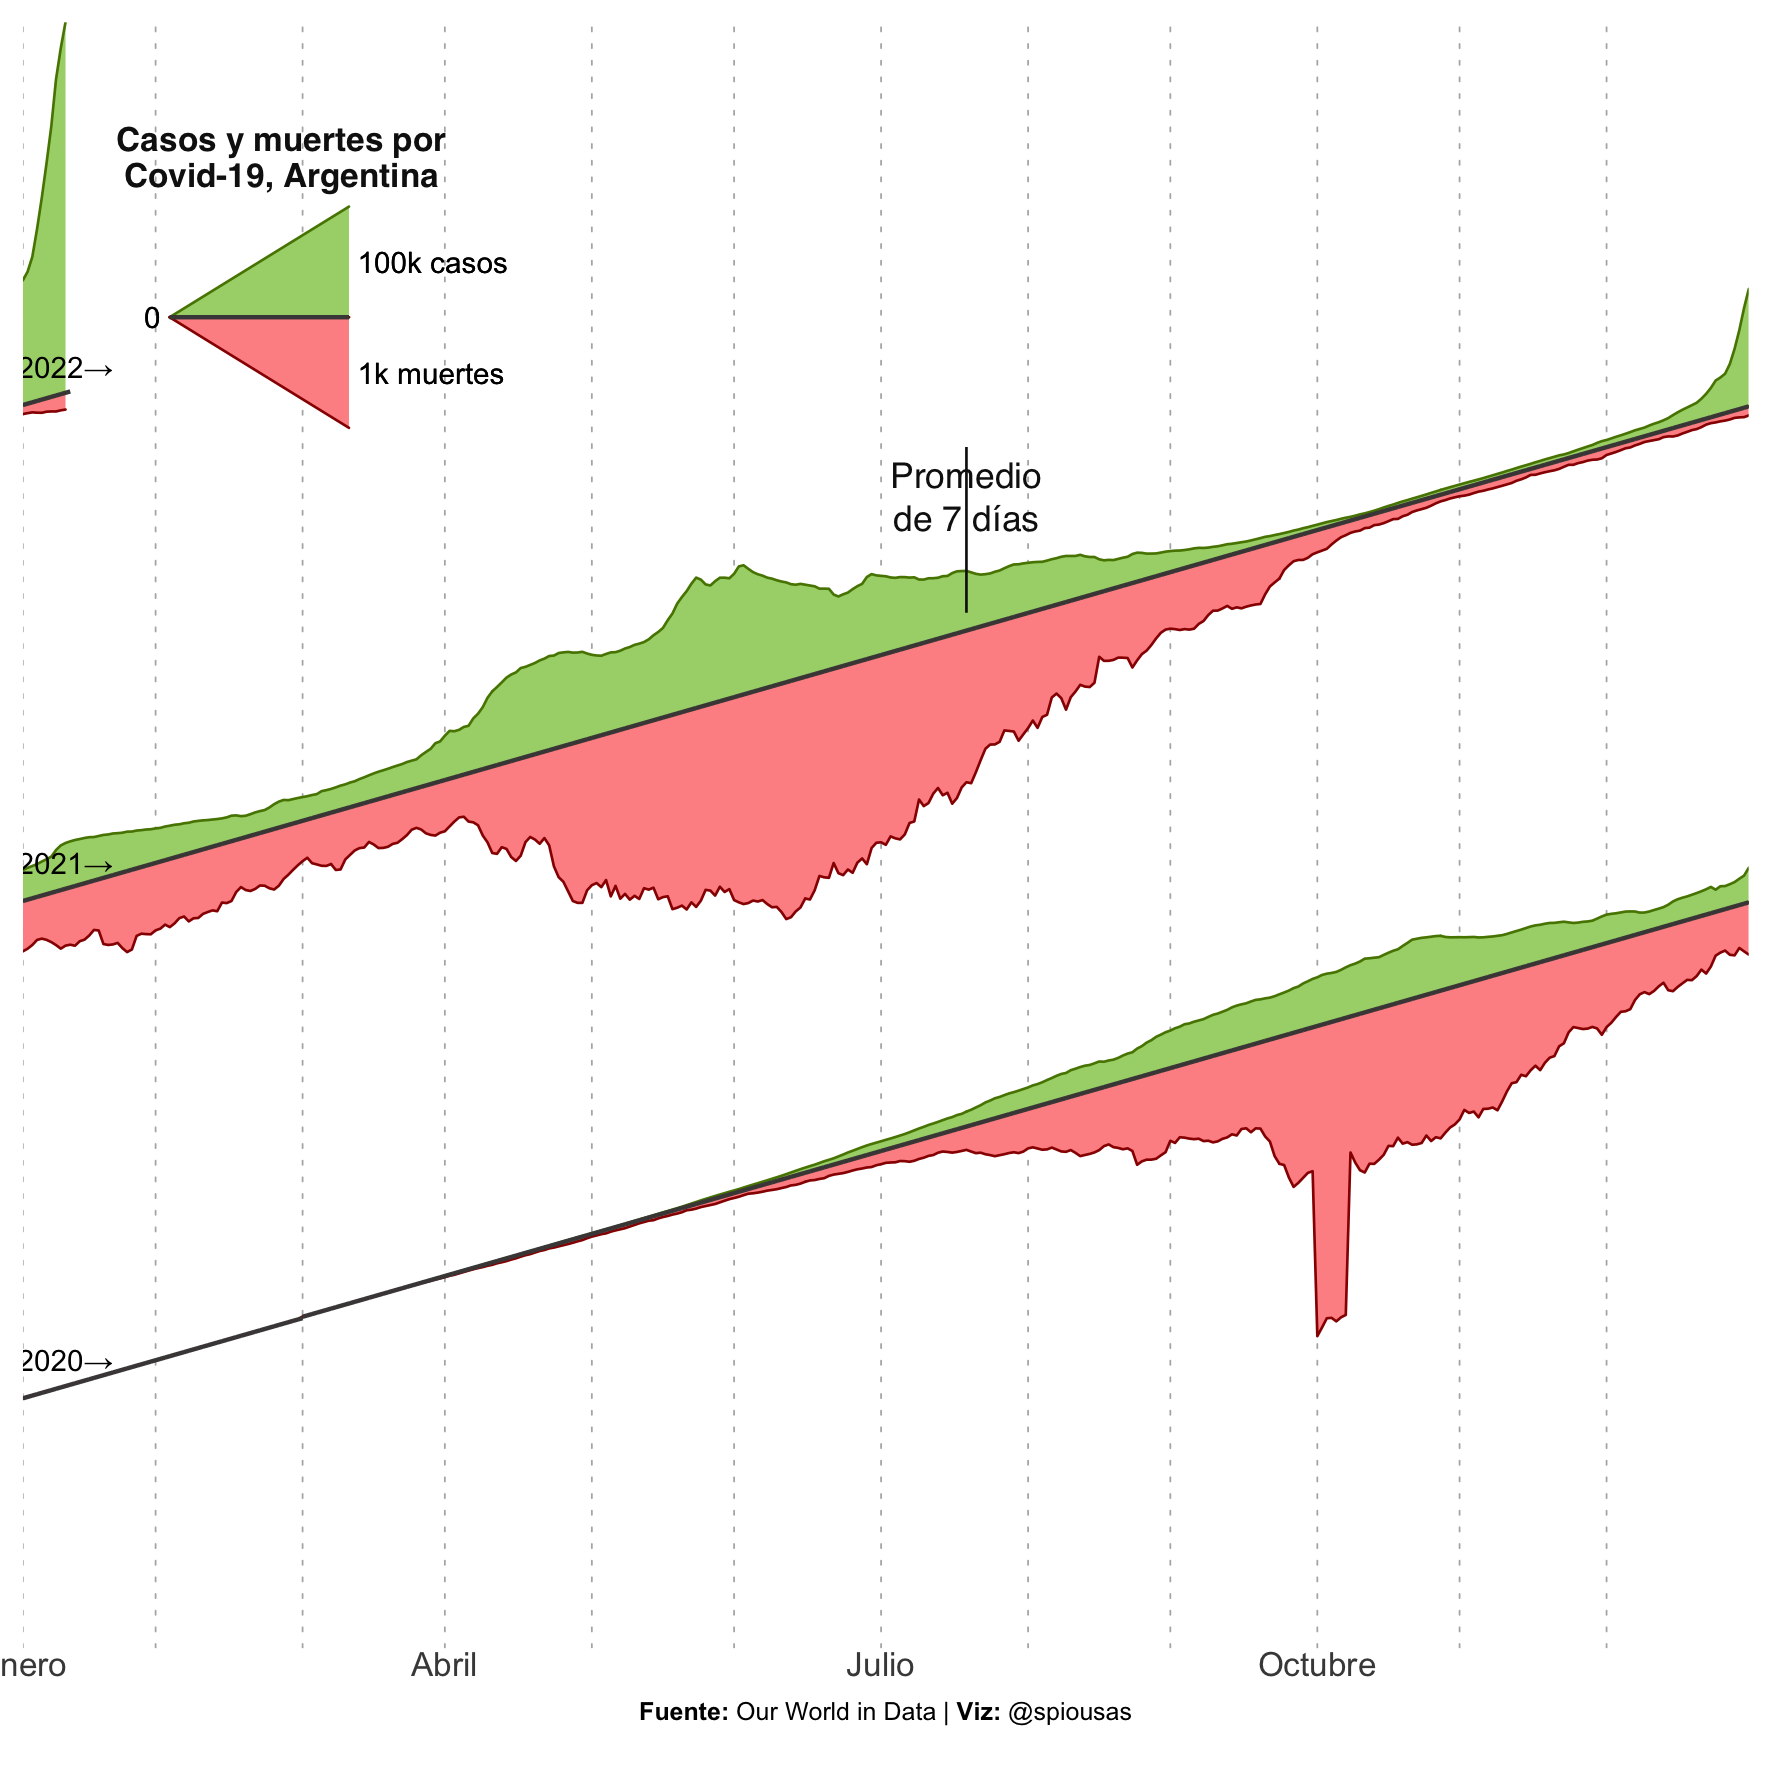
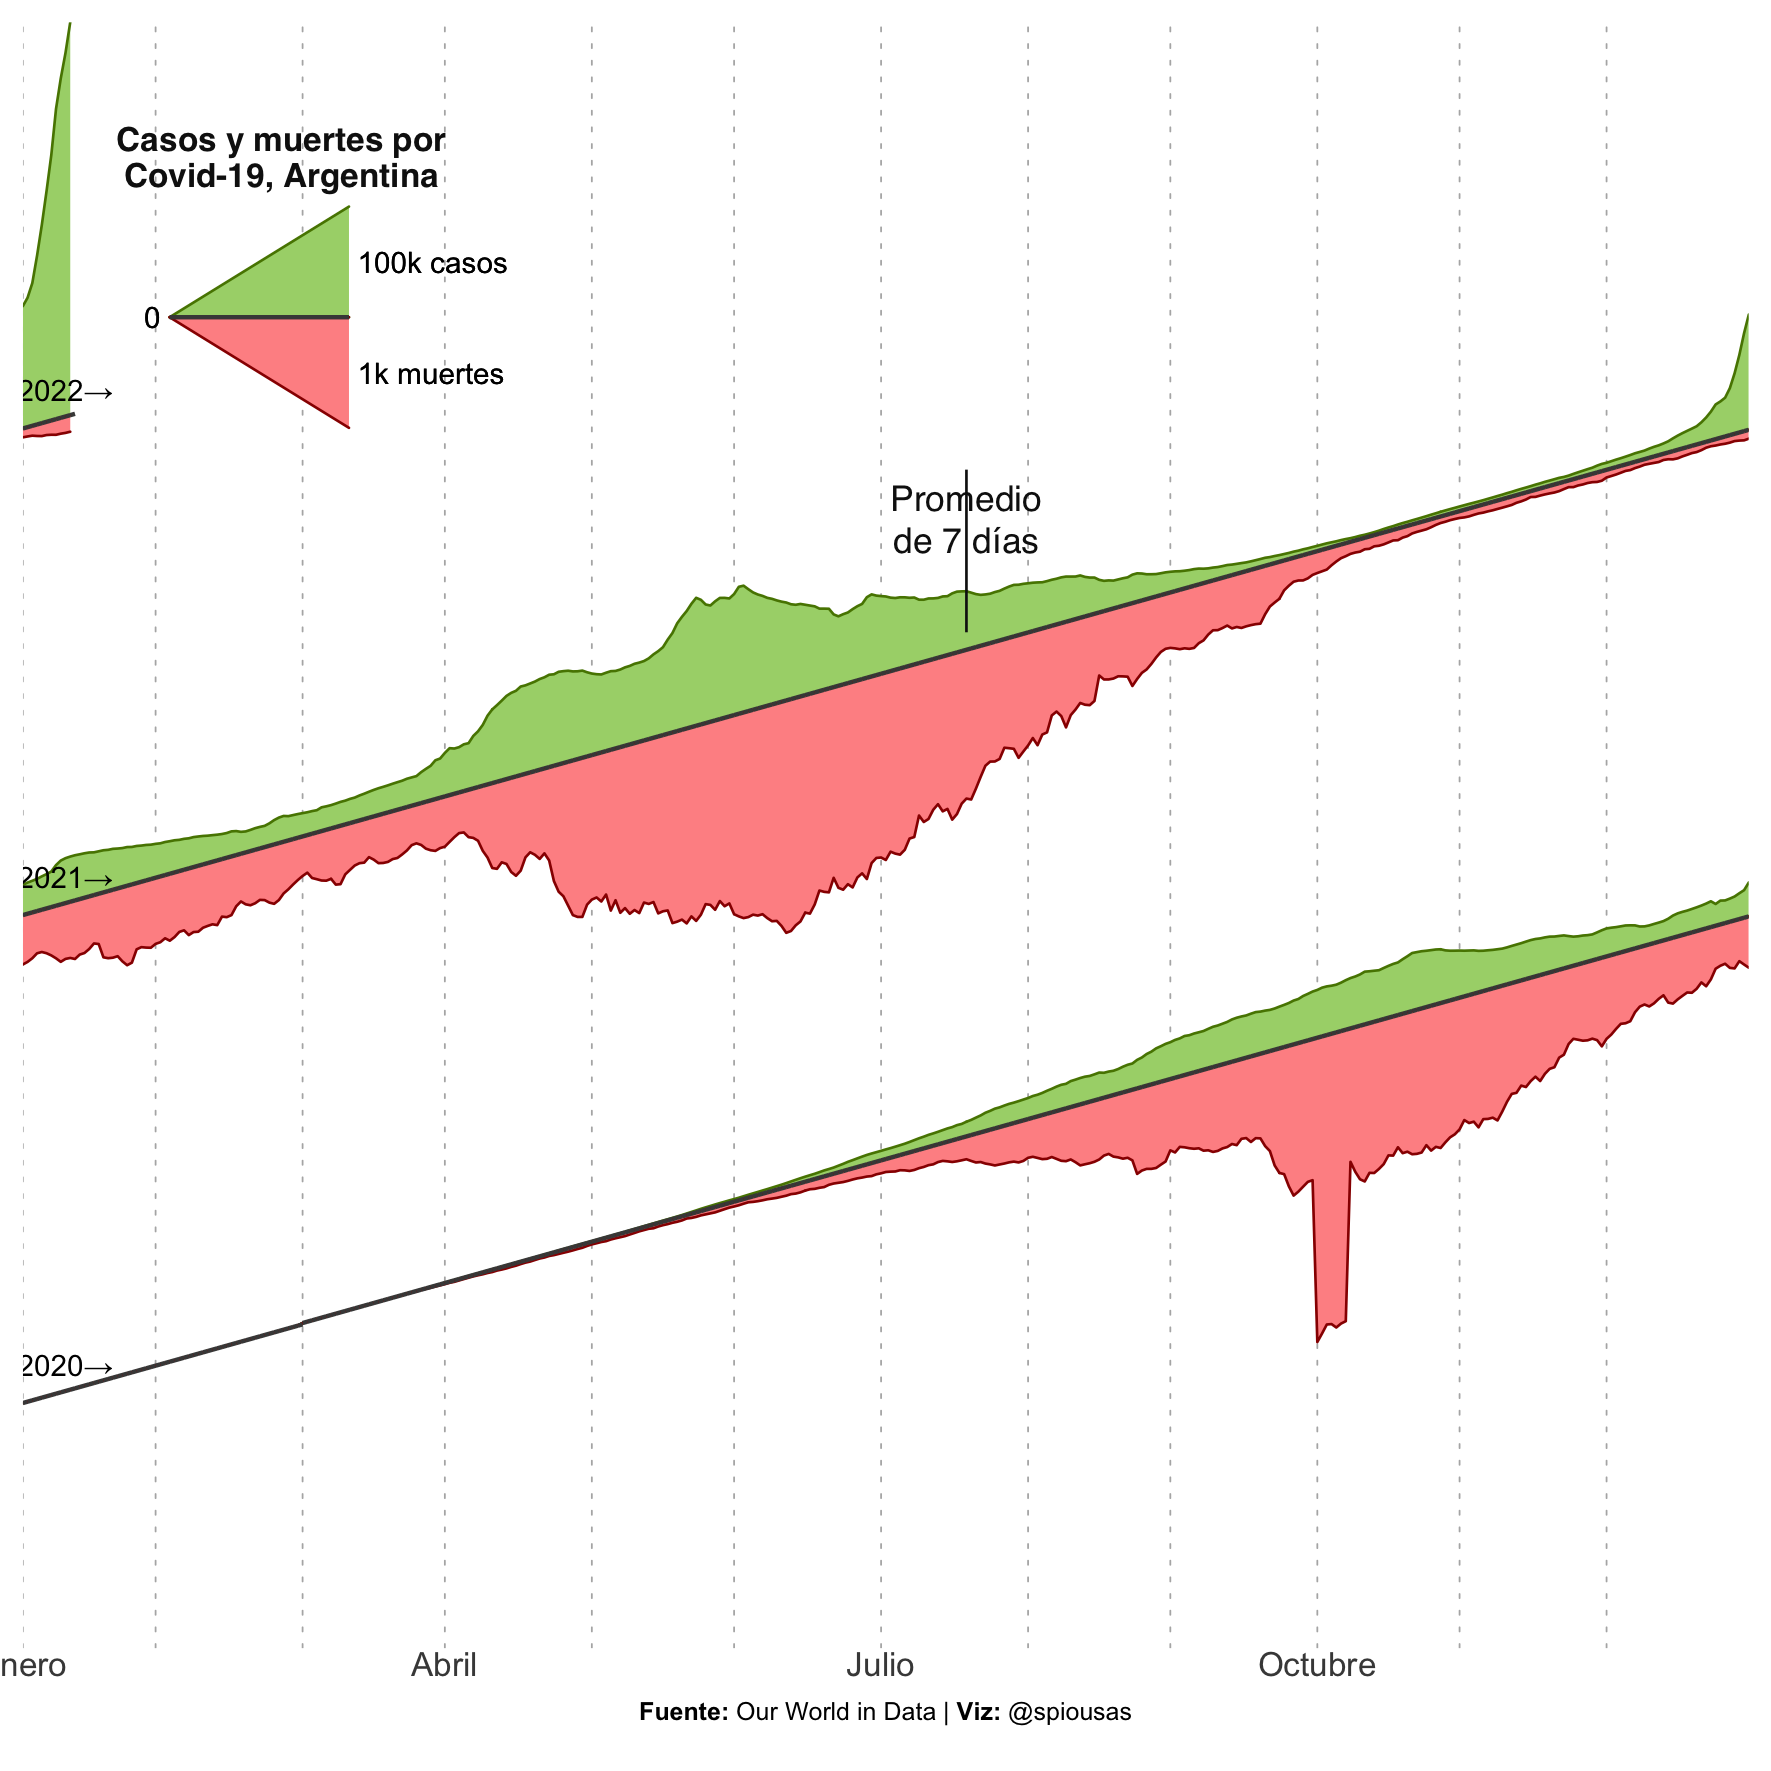
Fix readme

diff --git a/README.md b/README.md
@@ -39,5 +39,6 @@ here](https://github.com/spiousas/random_Viz/blob/main/Copa_America/historico/co
 
 Covid-19 cases and deaths in Argentina in the shape of the (in)famous
 NYT spiral plot.
-<img src="./Spiral-19/output/spiral_arg.png" width="100%" /> [Code
-here](https://github.com/spiousas/random_Viz/blob/main/Spiral-19/spiral_arg.R)
+<img src="./Spiral-19/output/spiral_arg_colorblind.png" width="100%" />
+[Code
+here](https://github.com/spiousas/random_Viz/blob/main/Spiral-19/spiral_arg_colorblind.R)
